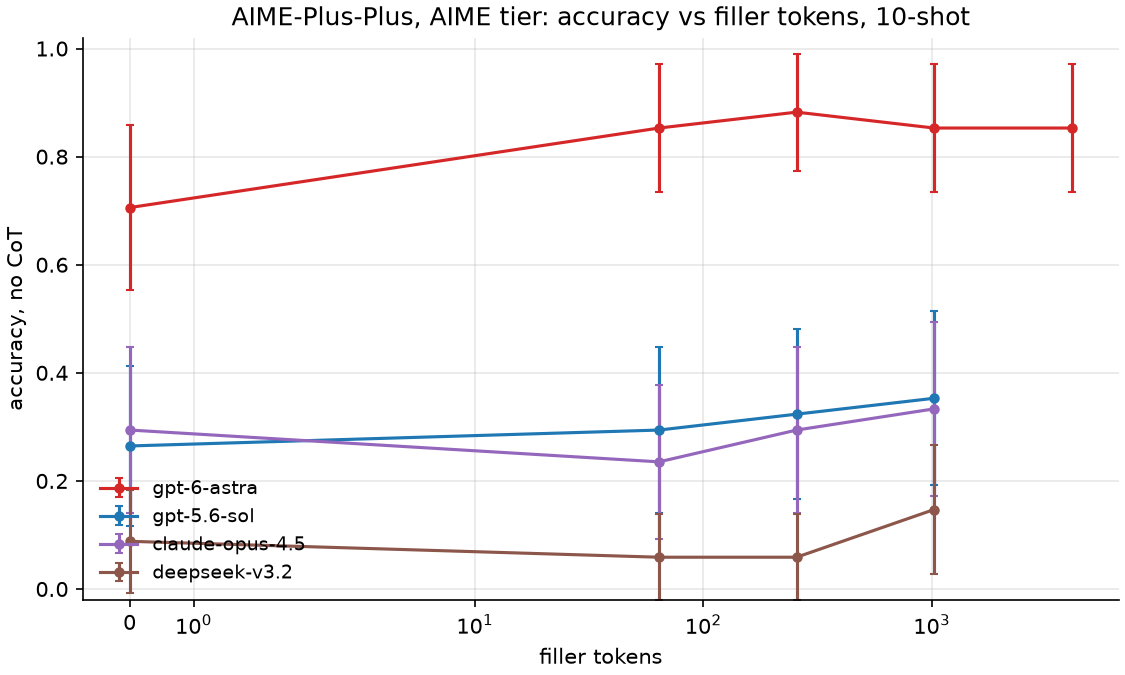
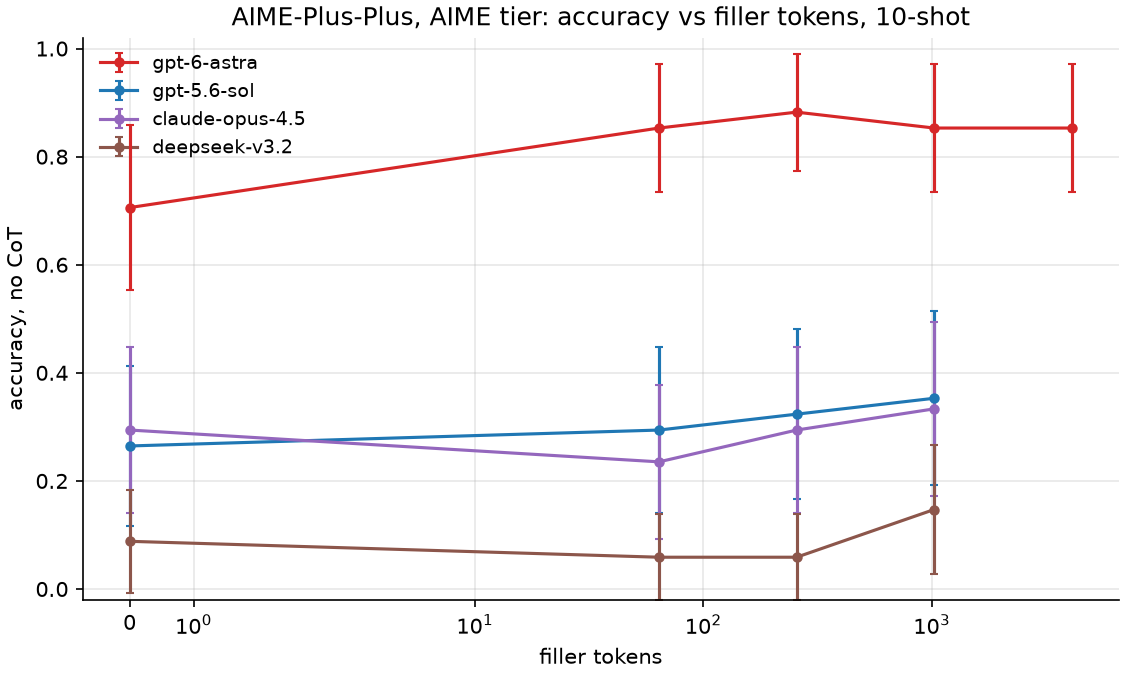
ideal fewshot10: AIME++ legend upper left

Changed region(s): [[0.0933, 0.7156, 0.28, 0.8711], [0.0933, 0.0622, 0.28, 0.2489]]

diff --git a/src/nf/ideal.py b/src/nf/ideal.py
@@ -176,7 +176,7 @@ def fewshot10():
             "aimepp_models",
             df[df.task == "aimepp"][lambda d: d.problem_id.map(aimepp_tier) == "AIME"],
             "AIME-Plus-Plus, AIME tier",
-            "lower left",
+            "upper left",
         ),
         ("aime_models", df[df.task == "aime"], "AIME/HMMT 2024-26", "upper left"),
     ]:
